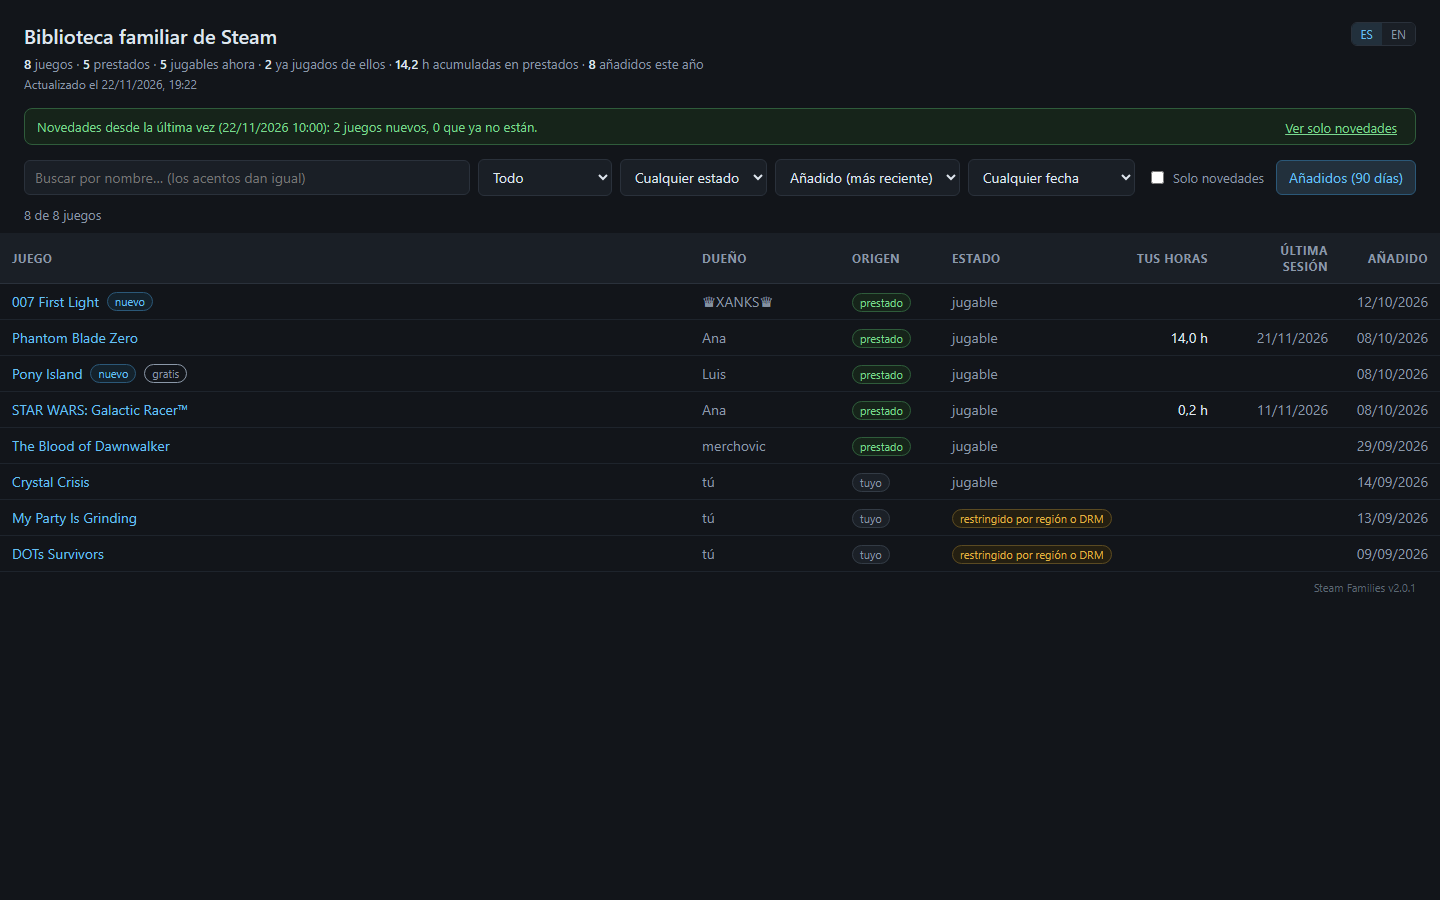
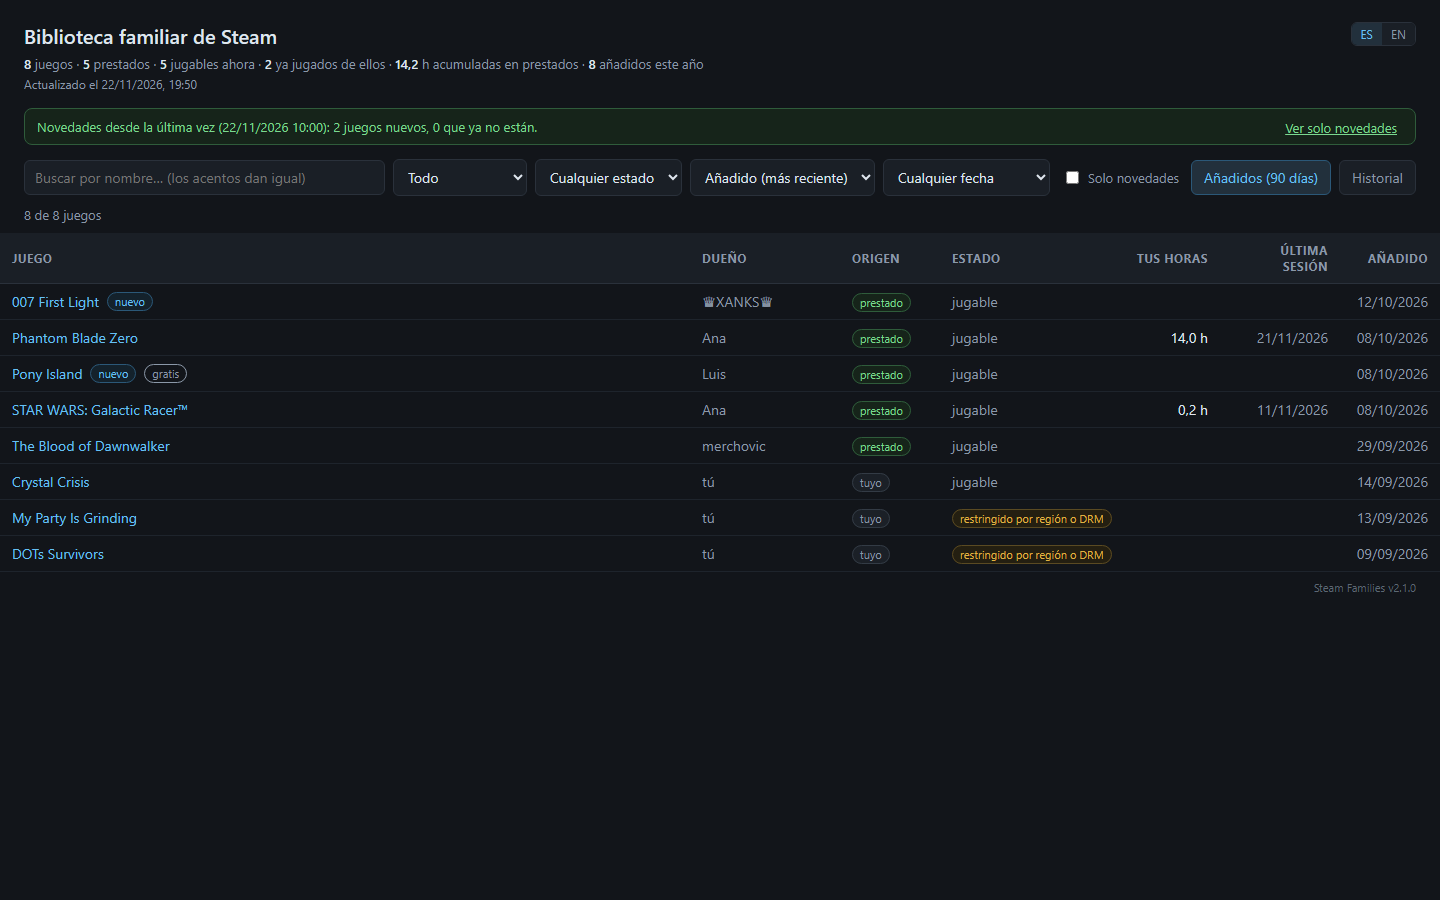
Añade el historial al panel y prepara la 2.1.0
- Botón Historial con las últimas 500 novedades (fecha, juego, qué y quién).
- Paquete incluye macOS.
- Workflow Release: al empujar un tag v*, compila Windows, Linux y macOS y
  publica la release con los tres binarios.
- Versión 2.1.0, changelog y captura actualizados. 100 pruebas.

Changed region(s): [[0.3438, 0.1556, 0.9688, 0.2178], [0.2812, 0.1867, 0.3125, 0.2178]]

diff --git a/steam_families.py b/steam_families.py
@@ -37,7 +37,7 @@ from pathlib import Path
 API = "https://api.steampowered.com"
 COMUNIDAD = "https://steamcommunity.com"
 TIENDA = "https://store.steampowered.com"
-VERSION = "2.0.1"
+VERSION = "2.1.0"
 UA = f"steam-family-library/{VERSION}"
 EXCLUDE_REASONS = {
     0: "",
@@ -642,12 +642,18 @@ td.der { text-align:right; font-variant-numeric:tabular-nums; white-space:nowrap
 .nuevo { color:var(--acento); border-color:#2b5878; background:#14222c; }
 .fuera { color:var(--rojo); border-color:#5c2f2f; background:#241717; }
 .dim { color:var(--suave); }
+.si { color:var(--verde); }
+.no { color:var(--rojo); }
 .atajo { background:#22303c; color:var(--acento); border:1px solid #2b5878; border-radius:6px; padding:7px 12px; font:inherit; cursor:pointer; }
 .atajo:hover { background:#2a3d4d; }
 .sec { background:var(--panel); color:var(--suave); border:1px solid var(--borde); border-radius:6px; padding:7px 12px; font:inherit; cursor:pointer; }
 .sec:hover { background:#1f252d; color:var(--texto); }
 #vacio { padding:30px 24px; color:var(--suave); }
 #version { padding:8px 24px 20px; color:#5d6773; font-size:11px; text-align:right; }
+#historialCaja { padding:16px 24px 30px; border-top:1px solid var(--borde); }
+#historialCaja h2 { font-size:15px; margin:0 0 10px; font-weight:600; }
+#historialCaja table { min-width:0; }
+#historialCaja th, #historialCaja td { font-size:12px; padding:6px 8px; }
 #actualizado { margin:4px 0 0; color:var(--suave); font-size:12px; }
 #actualizado.viejo { color:var(--ambar); }
 .aviso.ambar { background:#241f11; border-color:#5a4a22; color:var(--ambar); }
@@ -705,6 +711,7 @@ td.der { text-align:right; font-variant-numeric:tabular-nums; white-space:nowrap
   <label class="check"><input type="checkbox" id="soloNuevos"> <span data-t="soloNuevos">Solo novedades</span></label>
   <button type="button" id="presetCompras" class="atajo" data-t="preset">Añadidos (90 días)</button>
   <button type="button" id="limpiar" class="sec" data-t="limpiar" hidden>Limpiar filtros</button>
+  <button type="button" id="verHistorial" class="sec" data-t="historial">Historial</button>
 </div>
 <div id="resumen" aria-live="polite"></div>
 <table>
@@ -722,6 +729,10 @@ td.der { text-align:right; font-variant-numeric:tabular-nums; white-space:nowrap
   <tbody id="cuerpo"></tbody>
 </table>
 <div id="vacio" hidden data-t="vacio">Ningún juego cumple esos filtros.</div>
+<section id="historialCaja" hidden>
+  <h2 data-t="historialTitulo">Historial de novedades</h2>
+  <div id="historialTabla"></div>
+</section>
 <div id="version">Steam Families v__VERSION__</div>
 
 <script>
@@ -730,6 +741,7 @@ const FECHA_NOV = __FECHA_NOV__;
 const HAY_NOV = __HAY_NOV__;
 const ACTUALIZADO = __ACTUALIZADO__;
 const SIN_NOMBRE = __SIN_NOMBRE__;
+const HISTORIAL = __HISTORIAL__;
 
 const TEXTOS = {
   es: {
@@ -756,6 +768,9 @@ const TEXTOS = {
     verNuevos: "Ver solo novedades",
     preset: "Añadidos (90 días)",
     limpiar: "Limpiar filtros",
+    historial: "Historial",
+    historialTitulo: "Historial de novedades",
+    historialVacio: "Todavía no hay novedades.",
     juego: "Juego",
     dueno: "Dueño",
     origen: "Origen",
@@ -819,6 +834,9 @@ const TEXTOS = {
     verNuevos: "Show only new",
     preset: "Added (90 days)",
     limpiar: "Clear filters",
+    historial: "History",
+    historialTitulo: "Changes history",
+    historialVacio: "No changes yet.",
     juego: "Game",
     dueno: "Owner",
     origen: "Source",
@@ -1139,6 +1157,49 @@ function pintaNombres() {
     ? T("sinNombreUno") : T("sinNombre").replace("%n%", SIN_NOMBRE);
 }
 
+function pintaHistorial() {
+  const caja = $("historialCaja");
+  if (caja.hidden) return;
+  const tabla = document.createElement("table");
+  const thead = document.createElement("thead");
+  const fila = document.createElement("tr");
+  [T("fecha"), T("juego"), T("que"), T("quien")].forEach(texto => {
+    const th = document.createElement("th");
+    th.textContent = texto;
+    fila.appendChild(th);
+  });
+  thead.appendChild(fila);
+
+  const tbody = document.createElement("tbody");
+  HISTORIAL.slice().reverse().slice(0, 300).forEach(h => {
+    const tr = document.createElement("tr");
+    const f = document.createElement("td");
+    f.className = "dim";
+    f.textContent = fechaHora(h.f);
+    const juego = document.createElement("td");
+    juego.textContent = h.n;
+    const que = document.createElement("td");
+    que.className = h.e === "nuevo" ? "si" : "no";
+    que.textContent = h.e === "nuevo" ? T("nuevo") : (h.e === "fuera" ? T("fuera") : T("otroDueno"));
+    const quien = document.createElement("td");
+    quien.className = "quien";
+    quien.textContent = h.q || (h.p ? T("tu") : T("otroMiembro"));
+    tr.append(f, juego, que, quien);
+    tbody.appendChild(tr);
+  });
+  if (!HISTORIAL.length) {
+    const tr = document.createElement("tr");
+    const td = document.createElement("td");
+    td.colSpan = 4;
+    td.className = "dim";
+    td.textContent = T("historialVacio");
+    tr.appendChild(td);
+    tbody.appendChild(tr);
+  }
+  tabla.append(thead, tbody);
+  $("historialTabla").replaceChildren(tabla);
+}
+
 function aplicaIdioma() {
   document.documentElement.lang = IDIOMA;
   document.title = T("titulo");
@@ -1152,6 +1213,7 @@ function aplicaIdioma() {
   pintaAviso();
   pintaActualizado();
   pintaNombres();
+  pintaHistorial();
   pinta();
 }
 
@@ -1213,6 +1275,11 @@ $("limpiar").addEventListener("click", () => {
   ORDEN_CABECERA = null;
   try { localStorage.removeItem(CLAVE_FILTROS); } catch (e) {}
   pinta();
+});
+$("verHistorial").addEventListener("click", () => {
+  const caja = $("historialCaja");
+  caja.hidden = !caja.hidden;
+  pintaHistorial();
 });
 cargaFiltros();
 aplicaIdioma();
@@ -1291,6 +1358,27 @@ def exportar(datos, token, api_key="", include_free=False, include_non_games=Fal
         "grupo": datos_nuevos["grupo"],
         "primera": not previo,
     }
+
+
+def leer_historial(datos, limite=500):
+    """Últimas novedades guardadas en historial.csv, para el panel."""
+    ruta = Path(datos) / "historial.csv"
+    if not ruta.exists():
+        return []
+    filas = []
+    try:
+        with ruta.open(encoding="utf-8-sig", newline="") as f:
+            for fila in csv.DictReader(f):
+                filas.append({
+                    "f": fila.get("fecha", ""),
+                    "e": fila.get("evento", ""),
+                    "n": fila.get("nombre", ""),
+                    "q": fila.get("quien", ""),
+                    "p": fila.get("propio", "") == "si",
+                })
+    except (OSError, csv.Error, UnicodeDecodeError):
+        return []
+    return filas[-limite:]
 
 
 def generar_panel(datos):
@@ -1378,6 +1466,9 @@ def generar_panel(datos):
     sin_nombre = sum(1 for v in alias.values() if str(v).startswith("Miembro "))
     html = html.replace("__SIN_NOMBRE__", str(sin_nombre))
     html = html.replace("__VERSION__", VERSION)
+    historial = json.dumps(leer_historial(datos), ensure_ascii=False,
+                           separators=(",", ":")).replace("</", "<\\/")
+    html = html.replace("__HISTORIAL__", historial)
     # Los datos van al final: si un nombre de juego coincide con un marcador, no se toca.
     html = html.replace("__DATOS__", blob)
 

diff --git a/pruebas/test_logica.py b/pruebas/test_logica.py
@@ -471,6 +471,10 @@ class PruebaPanel(unittest.TestCase):
                                "20": {"n": "Prestado", "o": ["bbb"], "p": True, "v": "2026-02-01"},
                                "30": {"n": "Bloqueado", "o": ["bbb"], "p": False, "v": "2026-02-01"}}}
             (d / "snapshot.json").write_text(json.dumps(snap), encoding="utf-8")
+            (d / "historial.csv").write_text(
+                "fecha,evento,appid,nombre,quien,propio\n"
+                "2026-11-20 10:00,nuevo,20,Paseo,Ana,no\n",
+                encoding="utf-8-sig")
 
             resumen = sfl.generar_panel(d)
             self.assertEqual(resumen["prestados"], 2)
@@ -485,6 +489,8 @@ class PruebaPanel(unittest.TestCase):
             self.assertIn("const SIN_NOMBRE = 0", html)
             self.assertIn('"n":"__FECHA_NOV__"', html)
             self.assertIn("v" + sfl.VERSION, html)
+            self.assertIn("const HISTORIAL = [", html)
+            self.assertIn("Paseo", html)
 
             prestados = list(csv.DictReader((d / "prestados.csv").open(encoding="utf-8-sig")))
             self.assertEqual(len(prestados), 2)

diff --git a/pruebas/test_interfaz.py b/pruebas/test_interfaz.py
@@ -49,6 +49,10 @@ def escribe_datos(d):
                        "20": {"o": [sfl.etiqueta("222")], "p": True},
                        "30": {"o": [sfl.etiqueta("222")], "p": False}}}
     (d / "snapshot.json").write_text(json.dumps(snap), encoding="utf-8")
+    (d / "historial.csv").write_text(
+        "fecha,evento,appid,nombre,quien,propio\n"
+        "2026-11-20 10:00,nuevo,20,Paseo,Ana,no\n",
+        encoding="utf-8-sig")
 
 
 @unittest.skipUnless(sync_playwright, "Playwright no está instalado")
@@ -145,6 +149,13 @@ class PruebaInterfaz(unittest.TestCase):
         self.assertEqual(cabecera.get_attribute("aria-sort"), "descending")
         pagina.keyboard.press("Enter")
         self.assertEqual(cabecera.get_attribute("aria-sort"), "ascending")
+
+    def test_historial(self):
+        pagina = self.pagina("/panel.html")
+        pagina.click("#verHistorial")
+        texto = pagina.inner_text("#historialCaja")
+        self.assertIn("Paseo", texto)
+        self.assertIn("20/11/2026", texto)
 
 
 if __name__ == "__main__":

diff --git a/README.md b/README.md
@@ -71,7 +71,7 @@ Opciones: `--datos`, `--api-key`, `--include-free`, `--include-non-games`, `--si
 
 ## Ejecutable
 
-Si no quieres instalar Python, `python empaquetar.py` genera un ejecutable de un solo fichero en `dist/` con PyInstaller (dependencia de desarrollo). Compílalo en el sistema donde lo vayas a usar. El workflow **Paquete** de GitHub Actions deja el binario de Windows y el de Linux como artefactos. Windows puede avisar de que el ejecutable no está firmado; es normal en un binario sin certificado.
+Si no quieres instalar Python, `python empaquetar.py` genera un ejecutable de un solo fichero en `dist/` con PyInstaller (dependencia de desarrollo). Compílalo en el sistema donde lo vayas a usar. El workflow **Paquete** de GitHub Actions deja los binarios de Windows, Linux y macOS como artefactos. Windows puede avisar de que el ejecutable no está firmado; es normal en un binario sin certificado. En macOS el binario no está notarizado: ábrelo con clic derecho → Abrir, o quita la cuarentena con `xattr -d com.apple.quarantine steam-families`.
 
 ## Cómo funciona
 
@@ -108,7 +108,7 @@ Los tres endpoints de familia están sin documentar: funcionan hoy y pueden camb
 python -m unittest discover -s pruebas -v
 ```
 
-94 pruebas sin red, más 5 de interfaz con Playwright (se saltan si no está instalado; hacen falta `pip install -r requirements-dev.txt` y `playwright install chromium`). Tres de las unitarias son solo de Windows y se saltan en otros sistemas. GitHub Actions ejecuta además la interfaz completa en Ubuntu 22.04 con Python 3.8, Ubuntu latest con 3.12 y Windows con 3.9 y 3.12, incluido el lanzador `.cmd`, y las pruebas de navegador en Chromium.
+95 pruebas sin red, más 5 de interfaz con Playwright (se saltan si no está instalado; hacen falta `pip install -r requirements-dev.txt` y `playwright install chromium`). Tres de las unitarias son solo de Windows y se saltan en otros sistemas. GitHub Actions ejecuta además la interfaz completa en Ubuntu 22.04 con Python 3.8, Ubuntu latest con 3.12 y Windows con 3.9 y 3.12, incluido el lanzador `.cmd`, y las pruebas de navegador en Chromium.
 
 ## Créditos
 
@@ -183,7 +183,7 @@ Options: `--datos`, `--api-key`, `--include-free`, `--include-non-games`, `--sin
 
 ## Executable
 
-If you do not want to install Python, `python empaquetar.py` builds a single-file executable in `dist/` with PyInstaller (a development dependency). Build it on the system where you are going to use it. The **Paquete** workflow in GitHub Actions uploads the Windows and Linux binaries as artifacts. Windows may warn that the executable is unsigned; that is normal for a binary without a certificate.
+If you do not want to install Python, `python empaquetar.py` builds a single-file executable in `dist/` with PyInstaller (a development dependency). Build it on the system where you are going to use it. The **Paquete** workflow in GitHub Actions uploads the Windows, Linux and macOS artifacts. Windows may warn that the executable is unsigned; that is normal for a binary without a certificate. On macOS the binary is not notarised: open it with right-click → Open, or remove the quarantine with `xattr -d com.apple.quarantine steam-families`.
 
 ## How it works
 
@@ -220,7 +220,7 @@ The three family endpoints are undocumented: they work today and may change tomo
 python -m unittest discover -s pruebas -v
 ```
 
-94 tests with no network, plus 5 browser tests with Playwright (skipped if it is not installed; they need `pip install -r requirements-dev.txt` and `playwright install chromium`). Three of the unit tests are Windows-only and are skipped elsewhere. GitHub Actions also runs the full interface on Ubuntu 22.04 with Python 3.8, Ubuntu latest with 3.12, and Windows with 3.9 and 3.12, including the `.cmd` launcher, and the browser tests on Chromium.
+95 tests with no network, plus 5 browser tests with Playwright (skipped if it is not installed; they need `pip install -r requirements-dev.txt` and `playwright install chromium`). Three of the unit tests are Windows-only and are skipped elsewhere. GitHub Actions also runs the full interface on Ubuntu 22.04 with Python 3.8, Ubuntu latest with 3.12, and Windows with 3.9 and 3.12, including the `.cmd` launcher, and the browser tests on Chromium.
 
 ## Credits
 

diff --git a/CHANGELOG.md b/CHANGELOG.md
@@ -1,5 +1,9 @@
 # Cambios
 
+## 2.1.0 — 2026-11-22
+
+- El panel incluye el historial de novedades (últimas 500), con fecha, juego, qué y quién.
+
 ## 2.0.1 — 2026-11-22
 
 - El servidor lee y descarta el cuerpo antes de responder 413: en Windows ya no corta la conexión.
